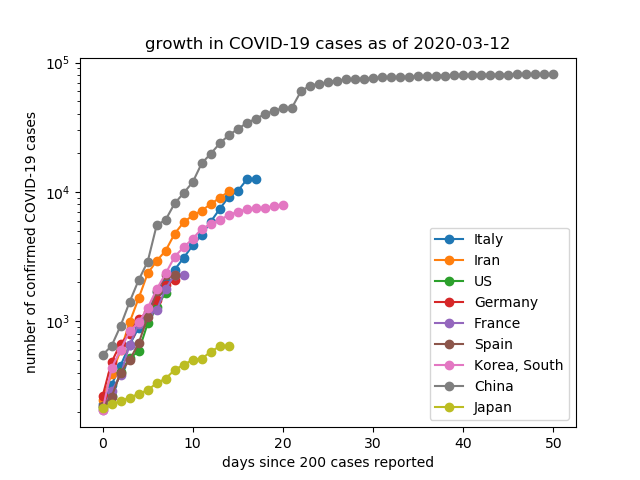
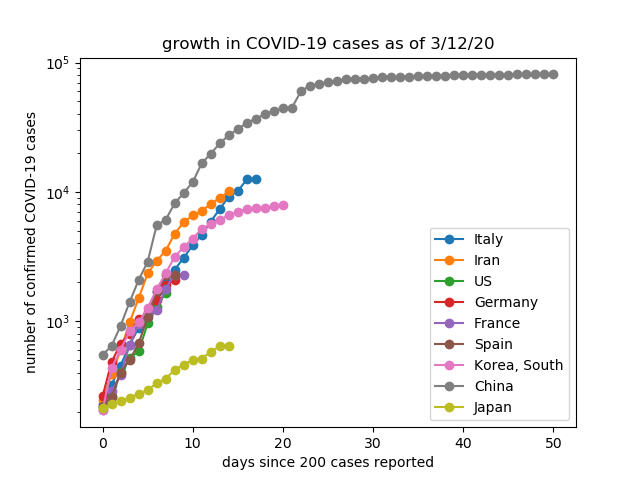
add states

Changed region(s): [[0.2188, 0.0625, 0.8125, 0.125]]

diff --git a/covid.py b/covid.py
@@ -2,13 +2,12 @@ import pandas as pd
 import matplotlib.pyplot as plt
 # import seaborn as sns
 import numpy as np
-from datetime import date
 
 
 # load the time series data into a pandas data structure
 def load_data(filename='COVID-19/csse_covid_19_data/csse_covid_19_time_series/time_series_19-covid-Confirmed.csv'):
 	df = pd.read_csv(filename)
-	return df.drop(columns=['Lat','Long','Province/State'])
+	return df.drop(columns=['Lat','Long'])
 
 
 # put the data into a nice numpy format by country
@@ -18,7 +17,20 @@ def get_country_data(df,country_list):
 	country_data = []
 	for country in country_list:
 		cdata = df[df['Country/Region'] == country]
-		cdata = cdata.drop(columns=['Country/Region'])
+		cdata = cdata.drop(columns=['Country/Region', 'Province/State'])
+		by_date = np.sum(np.array(cdata.values),axis=0)
+		country_data.append(by_date)
+
+	return np.array(country_data).T
+
+# put the data into a nice numpy format by state
+def get_state_data(df,state_list):
+	df = df[df['Province/State'].isin(state_list)]
+
+	country_data = []
+	for state in state_list:
+		cdata = df[df['Province/State'] == state]
+		cdata = cdata.drop(columns=['Country/Region', 'Province/State'])
 		by_date = np.sum(np.array(cdata.values),axis=0)
 		country_data.append(by_date)
 
@@ -33,7 +45,7 @@ def plot_confirmed_cases(country_info,country_list):
 
 # plot the number of confirmed cases shifted by days since THRESH cases
 # (OPTIONAL: date_offset lets you start plotting a few days before this convergence)
-def plot_confirmed_cases_by_thresh(country_info,country_list,case_thresh,date_offset=0,per_capita=None):
+def plot_confirmed_cases_by_thresh(country_info,country_list,case_thresh,date_offset=0,per_capita=None, out=None, date=None):
 	if per_capita is None:
 		start_date = [np.where(ci > case_thresh)[0][0] + date_offset for ci in country_info.T]
 	else:
@@ -57,25 +69,42 @@ def plot_confirmed_cases_by_thresh(country_info,country_list,case_thresh,date_of
 	plt.semilogy(range(date_offset,end_date - np.min(start_date)),shaped_data.T, marker='o')
 	# sns.lineplot(shaped_data.T)
 	plt.legend(country_list)
-	plt.title('growth in COVID-19 cases as of ' + str(date.today()))
+	if date is not None:
+		plt.title('growth in COVID-19 cases as of ' + date)
 	if per_capita is None:
 		plt.ylabel('number of confirmed COVID-19 cases')
 		plt.xlabel('days since ' + str(case_thresh) + ' cases reported')
-		plt.savefig('cases.png')
+		if out is not None:
+			plt.savefig(out)
+		else:
+			plt.savefig('cases.png')
 	else:
 		plt.ylabel('number of confirmed COVID-19 cases per capita (millions)')
 		plt.xlabel('days since ' + str(case_thresh) + 'cases per capita (millions) reported')
-		plt.savefig('cases_capita.png')
+		if out is not None:
+			plt.savefig(out)
+		else:
+			plt.savefig('cases_capita.png')
 	plt.show()
 
 if __name__=='__main__':
 	country_list = ['Italy','Iran','US','Germany','France','Spain','Korea, South', 'China', 'Japan']
 	country_pop = [60.48,81.16,327.2,82.79,66.99,46.66,51.47,1386,126.8]
 	df = load_data()
+	date = df.columns[-1]
 
 	country_info = get_country_data(df,country_list)
 
 	# plot_confirmed_cases(country_info,country_list)
 	# plot_confirmed_cases_by_thresh(country_info,country_list,case_thresh=200,date_offset=-3)
-	plot_confirmed_cases_by_thresh(country_info,country_list,case_thresh=200,date_offset=0)
-	plot_confirmed_cases_by_thresh(country_info,country_list,case_thresh=1,date_offset=-3,per_capita=country_pop)
+	plot_confirmed_cases_by_thresh(country_info,country_list,case_thresh=200,date_offset=0, date=date)
+	plot_confirmed_cases_by_thresh(country_info,country_list,case_thresh=1,date_offset=-3,per_capita=country_pop, date=date)
+
+	state_list = ['Washington', 'New York']
+
+	state_info = get_state_data(df, state_list)
+
+	plot_confirmed_cases_by_thresh(state_info,state_list,case_thresh=300,date_offset=-3, out='cases_states.png', date=date)
+	nyc_current = state_info[-3:,1]
+	p = np.polyfit(range(len(nyc_current)), np.log(nyc_current),1)
+	print('Predicted # cases in NY tomorrow:', np.exp(p[1]) * np.exp(p[0] * (len(nyc_current)+1)))
